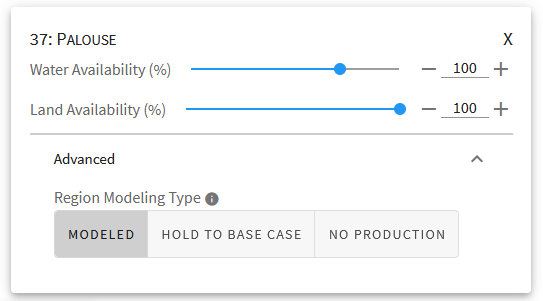
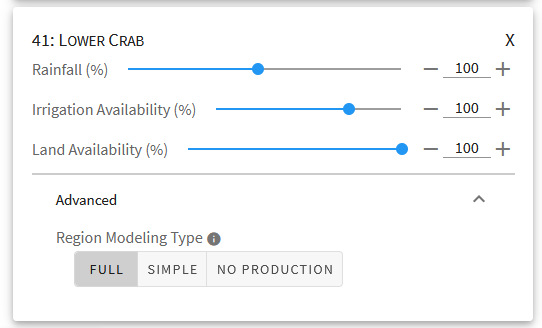
Information about Simple model, linear scaling, and default region behaviors
New map for WA

diff --git a/source/ModelAreas/washington/washington.rst b/source/ModelAreas/washington/washington.rst
@@ -36,87 +36,96 @@ to model every individual crop.
 
 Regions
 ----------
-.. figure:: WA_map_fixed_regions.jpg
+.. figure:: WA_modeling_behavior_sm.png
 
-    Regions used in the Washington model along with how they are handled, as modeled regions, or
-    fixed regions that are scaled linearly by default rather than modeled.
+    Regions used in the Washington model along with how they are handled by default, as :ref:`Full modeled regions <IrrigatedPMPDoc>`,
+    or :ref:`Simple modeled regions <SimpleModelingDoc>` that are scaled linearly by default rather than PMP modeled.
 
 .. csv-table::
-    :header: "Region Name", "WRIA Region ID"
+    :header: "Region Name", "WRIA Region ID", "Default Modeling Behavior"
 
-    "Alkali - Squilchuck", "40",
-    "Cedar - Sammamish", "8",
-    "Chambers - Clover", "12",
-    "Chelan", "47",
-    "Colville", "59",
-    "Cowlitz", "26",
-    "Deschutes", "13",
-    "Duwamish - Green", "9",
-    "Elwha - Dungeness", "18",
-    "Entiat", "46",
-    "Esquatzel Coulee", "36",
-    "Foster", "50",
-    "Grand Coulee", "42",
-    "Grays - Elochoman", "25",
-    "Hangman", "56",
-    "Island", "6",
-    "Kennedy - Goldsborough", "14",
-    "Kettle", "60",
-    "Kitsap", "15",
-    "Klickitat", "30",
-    "Lewis", "27",
-    "Little Spokane", "55",
-    "Lower Chehalis", "22",
-    "Lower Crab", "41",
-    "Lower Lake Roosevelt", "53",
-    "Lower Skagit - Samish", "3",
-    "Lower Snake", "33",
-    "Lower Spokane", "54",
-    "Lower Yakima (Kennewick ID)", "37-KID",
-    "Lower Yakima (Roza ID)", "37-RID",
-    "Lower Yakima (Sunnyside Valley ID)", "37-SVID",
-    "Lower Yakima (Wapato Irrigation Project)", "37-WIP",
-    "Lyre - Hoko", "19",
-    "Methow", "48",
-    "Middle Lake Roosevelt", "58",
-    "Middle Snake", "35",
-    "Middle Spokane", "57",
-    "Moses Coulee", "44",
-    "Naches (Yakima-Tieton ID)", "38-YTID",
-    "Nespelem", "51",
-    "Nisqually", "11",
-    "Nooksack", "1",
-    "Okanogan", "49",
-    "Palouse", "34",
-    "Pend Oreille", "62",
-    "Puyallup - White", "10",
-    "Queets - Quinault", "21",
-    "Quilcene - Snow", "17",
-    "Rock - Glade", "31",
-    "Salmon - Washougal", "28",
-    "San Juan", "2",
-    "Sanpoil", "52",
-    "Skokomish - Dosewallips", "16",
-    "Snohomish", "7",
-    "Soleduc", "20",
-    "Stillaguamish", "5",
-    "Upper Chehalis", "23",
-    "Upper Crab-Wilson", "43",
-    "Upper Lake Roosevelt", "61",
-    "Upper Skagit", "4",
-    "Upper Yakima (Ellensberg Area)", "39-EW",
-    "Upper Yakima (Kittitas RD)", "39-KRD",
-    "Walla Walla", "32",
-    "Wenatchee", "45",
-    "Willapa", "24",
-    "Wind - White Salmon", "29"
+    "Alkali - Squilchuck", "40", "Full"
+    "Cedar - Sammamish", "8", "Simple"
+    "Chambers - Clover", "12", "Simple"
+    "Chelan", "47", "Full"
+    "Colville", "59", "Full"
+    "Cowlitz", "26", "Full"
+    "Deschutes", "13", "Simple"
+    "Duwamish - Green", "9", "Simple"
+    "Elwha - Dungeness", "18", "Simple"
+    "Entiat", "46", "Full"
+    "Esquatzel Coulee", "36", "Full"
+    "Foster", "50", "Full"
+    "Grand Coulee", "42", "Full"
+    "Grays - Elochoman", "25", "Simple"
+    "Hangman", "56", "Full"
+    "Island", "6", "Simple"
+    "Kennedy - Goldsborough", "14", "Simple"
+    "Kettle", "60", "Simple"
+    "Kitsap", "15", "Simple"
+    "Klickitat", "30", "Full"
+    "Lewis", "27", "Simple"
+    "Little Spokane", "55", "Full"
+    "Lower Chehalis", "22", "Full"
+    "Lower Crab", "41", "Full"
+    "Lower Lake Roosevelt", "53", "Full"
+    "Lower Skagit - Samish", "3", "Full"
+    "Lower Snake", "33", "Full"
+    "Lower Spokane", "54", "Full"
+    "Lower Yakima (Kennewick ID)", "37-KID", "Full"
+    "Lower Yakima (Roza ID)", "37-RID", "Full"
+    "Lower Yakima (Sunnyside Valley ID)", "37-SVID", "Full"
+    "Lower Yakima (Wapato Irrigation Project)", "37-WIP", "Full"
+    "Lyre - Hoko", "19", "Simple"
+    "Methow", "48", "Full"
+    "Middle Lake Roosevelt", "58", "Simple"
+    "Middle Snake", "35", "Full"
+    "Middle Spokane", "57", "Simple"
+    "Moses Coulee", "44", "Full"
+    "Naches (Yakima-Tieton ID)", "38-YTID", "Full"
+    "Nespelem", "51", "Simple"
+    "Nisqually", "11", "Simple"
+    "Nooksack", "1", "Full"
+    "Okanogan", "49", "Full"
+    "Palouse", "34", "Full"
+    "Pend Oreille", "62", "Simple"
+    "Puyallup - White", "10", "Simple"
+    "Queets - Quinault", "21", "Insufficient Ag Land"
+    "Quilcene - Snow", "17", "Simple"
+    "Rock - Glade", "31", "Full"
+    "Salmon - Washougal", "28", "Full"
+    "San Juan", "2", "Simple"
+    "Sanpoil", "52", "Simple"
+    "Skokomish - Dosewallips", "16", "Simple"
+    "Snohomish", "7", "Full"
+    "Soleduc", "20", "Simple"
+    "Stillaguamish", "5", "Simple"
+    "Upper Chehalis", "23", "Full"
+    "Upper Crab-Wilson", "43", "Full"
+    "Upper Lake Roosevelt", "61", "Simple"
+    "Upper Skagit", "4", "Simple"
+    "Upper Yakima (Ellensberg Area)", "39-EW", "Full"
+    "Upper Yakima (Kittitas RD)", "39-KRD", "Full"
+    "Walla Walla", "32", "Full"
+    "Wenatchee", "45", "Full"
+    "Willapa", "24", "Full"
+    "Wind - White Salmon", "29", "Simple"
 
 .. _FixedRegionsSection:
 
-Fixed Regions
-_________________
+Default Modeling Behavior
+________________________
+Some regions in the Washington model use |project_name|'s :ref:`Simple model <SimpleModelingDoc>` by default in order to produce the best results.
+These regions were identified as having a small amount of agriculture relative to the state's total, and using the Full
+PMP model could result in wider fluctuations in results when significant input modifications are made. The table and map
+above indicate how each region is handled by default in |project_name|.
 
-.. todo:: fill in
+The primary criteria used in determining how each region is handled is its proportion of agricultural land and revenues
+relative to the state's totals. Region land and revenue were ordered by size and the regions that cumulatively resulted
+in less than 5 percent of land use and less than 2 percent of revenue for the state were identified for further analysis.
+Regions that fall into both groups use the Simple model by default, with the exceptions of WRIAS 22 (Lower Chehalis), 24
+(Willapa), 27 (Lewis), and 28 (Salmon - Washougal), who had significant caneberry production that would have resulted in
+more variability if left in the Simple model by default.
 
 Supported Capabilities
 ------------------------

diff --git a/source/MakeModelRun/region_modifications.rst b/source/MakeModelRun/region_modifications.rst
@@ -35,12 +35,13 @@ When working with region cards, you have the option to change advanced settings 
 that adjust how the region is modeled. Since each region is modeled independently, you can change these settings for any
 given region without affecting the output of another region.
 
-#. Modeled:
-    The default behavior - the region will be run through the PMP model and, when applicable, through the nonirrigated agricultural yield model.
-#. Hold to Base Case:
-    In some cases, you may want to hold specific region's values as "static" - in this case, holding
-    them to the base case prevents them from being modeled, and assumes that they won't change from the base
-    conditions. The model run will provide the same outputs for the region as those in the base case.
+#. Full:
+    The default behavior - the region will be run through the :ref:`full PMP model <IrrigatedPMPDoc>` and, when applicable, through the nonirrigated agricultural yield model.
+#. Simple:
+    In some cases, you may not want to make the assumptions that the full PMP model makes - in this case, the "simple"
+    option prevents them from being modeled in the PMP formulation, and instead assumes a linear scaling of values based
+    upon modifications in the input. See :ref:`SimpleModelingDoc` for more information on how the region will be modeled
+    when choosing this option.
 #. No Production:
     Use this if you want to model the region as if it produced nothing over the model time period. In the
     San Francisco Bay Delta, for example, this can be useful for scenarios where an island floods and produces
@@ -53,6 +54,20 @@ while other regions will apply crop modifications as normal.
 
 .. image:: region_card_advanced.png
 
+.. _DefaultAdvancedRegionOptionsSection:
+Default Advanced Region Options
+__________________________________
+In some cases, when choosing a region, one of the advanced region options may show up as chosen by default for that region.
+This occurs because some regions may have default modeling behaviors other than the full PMP model, based primarily on
+data availability. Regions with very small acreages of agriculture are very sensitive to fluctuations in inputs and regions
+with only one or two crop groups cannot be modeled with a PMP. In these cases, the region may show up with the :ref:`Simple
+modeling option <SimpleModelingDoc>` chosen by default. You may change these values, but note that it may make the results
+less reliable or result in an infeasible model run.
+
+.. warning::
+    It is important to note that these default behaviors apply to the regions even if you do not choose them for
+    modifications. If a region has a default modeling behavior and you do not create a region modification card
+    for it, then the default behavior will apply.
 
 .. _AdditionalReadingRegionModifications:
 

diff --git a/source/Dapper/linear_scaling.rst b/source/Dapper/linear_scaling.rst
@@ -1,0 +1,36 @@
+.. _SimpleModelingDoc:
+"Simple" Modeling and Linear Scaling
+=======================================
+
+|project_name| includes a simplified modeling mode for regions where
+
+1. Sufficient data to support PMP modeling are unavailable
+2. Data are available, but the region contains a small acreage of agriculture
+3. The region supports only one or two crop commodity groups
+4. You wish to run a version of the model that makes a more limited set of assumptions
+5. For running "worst case scenario" modeling
+
+Where the Full model assumes that within regions, resources can be freely traded, allowing multiple independent farmers
+to find optimal economic outcomes as resource availability changes, the simplified version assumes that changes
+to resource availability apply evenly to everyone, and they are unable to take steps to further improve their outcomes
+as their resource availability changes. We sometimes think of this as a "worst case scenario" outcome in that, when using
+the model to reduce resource availability, the Simple model gives us a reasonable lower bound on gross revenues and can
+be used with the Full PMP-modeled version of the same data to estimate a range of outcomes.
+
+In the first three cases above, |project_name| may be unable to adequately run the Full PMP model, so it will default to using
+the Simple model - this behavior :ref:`will show up when adding crop cards <DefaultAdvancedRegionOptionsSection>`, but will also apply to the affected regions whether
+or not a card is explicitly added for the region.
+
+Simple Model Formulation
+--------------------------
+For each crop in the region, revenue is calculated using the following equations. The adjustments provided in the web
+interface are noted as :code:`adj` with a subscript and are used as proportions relative to the original value.
+
+.. math:: land scaling factor = Min(adj_{land}, adj_{irrigatedwater})
+
+.. math:: gross revenue = price * adj_{price} * yield * adj_{yield} * acreage * land scaling factor
+
+The Simple model makes an assumption similar to the Full PMP model that deficit irrigation is not allowed. Thus, a proportional
+reduction in water can be thought of as proportional reduction in land because, without deficit irrigation, water will
+not be available to farm additional land as water is reduced. However, land and water reductions do not stack, and instead,
+the Simple model uses the smallest of the two adjustments as the limiting factor that determines how much land is in production.

diff --git a/source/Dapper/dapper.rst b/source/Dapper/dapper.rst
@@ -38,6 +38,7 @@ Please see the following articles for additional details on how these models wor
     input_data.rst
     irrigated_pmp.rst
     nonirrigated.rst
+    linear_scaling.rst
     outputs.rst
     model_limitations.rst
     irrigated_nonirrigated_data_split.rst
